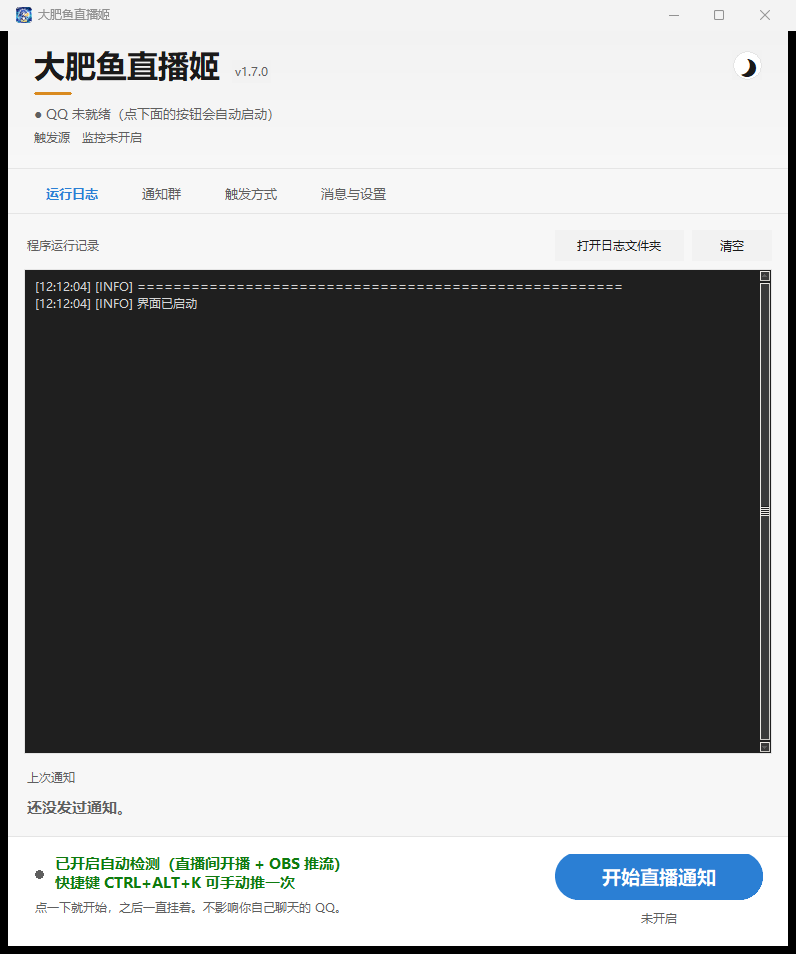
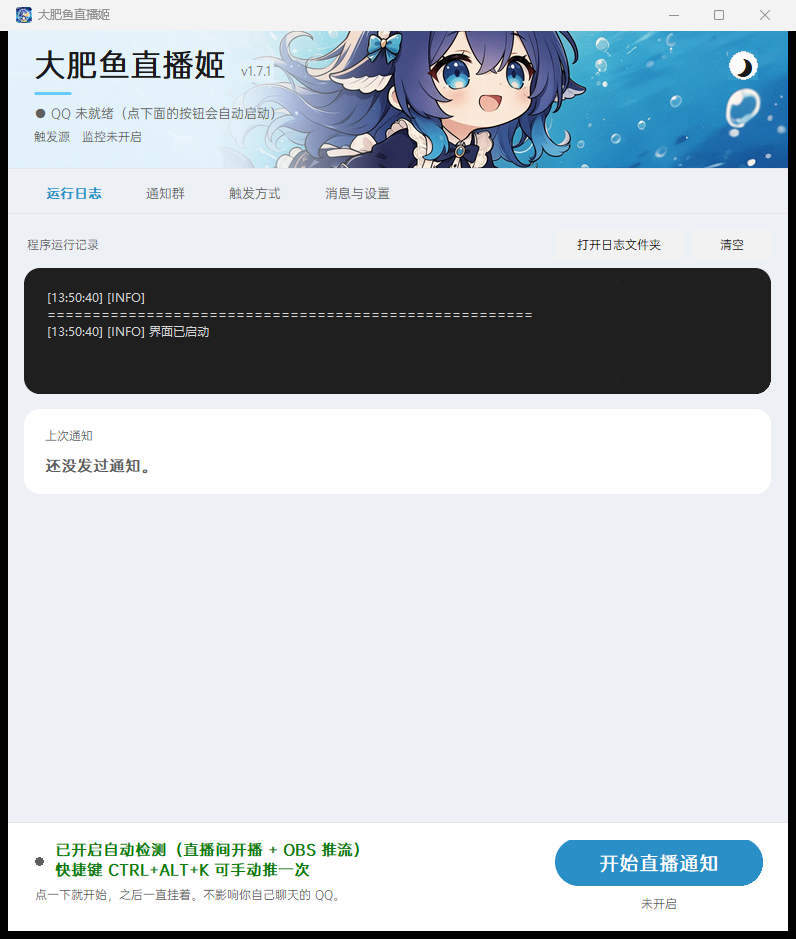
docs: README 与头图跟上二次元改造
## 截图重拍了

旧截图是二次元改造之前的界面。重拍时踩到一个隐私坑：第一次拍出来
界面显示「QQ 已就绪 咕噜鹤鹤子（2123654357）」—— **那是真实的机器人
账号，会进公开的 README**。改成把连接指向一个死端口，逼出「QQ 未就绪」
再拍。

## winget 那句是错的，改了

README 原来写着：

    winget install KagurazakaChizuru.DafeiyuLiveNotify

但 PR #437123 至今 open，而且提交的是 **1.1.0** —— 落后六个版本。
也就是说这条命令**现在根本装不到东西**。改成实话：还在审核队列里，
暂时用不了。

## 补上漏掉的功能

功能表里没有「13 套文案自动轮换」—— 那是 1.6.0 就有的实打实功能，
对外是卖点，漏了。

## 顺手

- 徽章配色从旧的 Fluent 蓝 #2F5FA8 换成天依蓝 #2B8FC7
- banner 上那道琥珀色短线换成天依蓝（唯一跟新配色不搭的一处）
- 补一句：顶部头图可以换成自己的（丢一对 780x138 的 PNG 进 app\）

diff --git a/README.md b/README.md
@@ -2,10 +2,10 @@
 
 ![大肥鱼直播姬](docs/images/banner.png)
 
-[![Release](https://img.shields.io/github/v/release/KagurazakaChizuru/dafeiyu-live-notify?color=2F5FA8&label=release)](https://github.com/KagurazakaChizuru/dafeiyu-live-notify/releases/latest)
-[![License](https://img.shields.io/github/license/KagurazakaChizuru/dafeiyu-live-notify?color=2F5FA8)](LICENSE)
-[![Platform](https://img.shields.io/badge/platform-Windows%2010%20%2F%2011-2F5FA8)](#)
-[![Python](https://img.shields.io/badge/python-3.8%2B-2F5FA8)](#)
+[![Release](https://img.shields.io/github/v/release/KagurazakaChizuru/dafeiyu-live-notify?color=2B8FC7&label=release)](https://github.com/KagurazakaChizuru/dafeiyu-live-notify/releases/latest)
+[![License](https://img.shields.io/github/license/KagurazakaChizuru/dafeiyu-live-notify?color=2B8FC7)](LICENSE)
+[![Platform](https://img.shields.io/badge/platform-Windows%2010%20%2F%2011-2B8FC7)](#)
+[![Python](https://img.shields.io/badge/python-3.8%2B-2B8FC7)](#)
 [![Dependencies](https://img.shields.io/badge/dependencies-0-1E7A4D)](#)
 
 **你开播时，它自动往 QQ 群发一条 `@全体成员`，顺便告诉群友你正在玩什么。**
@@ -22,11 +22,16 @@ Windows 10 / 11 · 免安装 · 不用装 Python · 解压就能跑
 scoop bucket add dafeiyu https://github.com/KagurazakaChizuru/dafeiyu-live-notify
 scoop install dafeiyu/dafeiyu-live-notify
 
-# winget（清单已通过本地校验，正在提交到 winget-pkgs）
-winget install KagurazakaChizuru.DafeiyuLiveNotify
+# winget：清单还在社区审核队列里（PR #437123），**暂时装不到**。
+# 等合并之后才能用下面这条：
+# winget install KagurazakaChizuru.DafeiyuLiveNotify
 ```
 
 ![界面](docs/images/screenshot.png)
+
+界面配色是照着二次元的调子做的：天依蓝、圆角、一点回弹动效。
+**顶部那条头图可以换成你自己的** —— 往 `app\` 里丢一对
+`header-light.png` / `header-dark.png`（780 × 138）就生效，不用重新打包。
 
 ---
 
@@ -48,6 +53,7 @@ winget install KagurazakaChizuru.DafeiyuLiveNotify
 |---|---|
 | 🔔 **开播自动通知** | 多群同时发 `@全体成员`，附一张直播间封面小图 |
 | 🎮 **自动识别在玩什么** | 通知里写「正在玩《三角洲》」。看当前窗口和你自己的直播姬场景配置，**不截图、不上传任何画面** |
+| 📝 **13 套文案自动轮换** | 内置一池子文案，每次开播随机挑一条。群里刷到第三遍就自动忽略 —— 换着发才有人看。想自己写就往里添 |
 | ⏰ **开播后二次提醒** | 30 分 / 1 小时各补一条，给第一波没看到的人第二次机会。有硬性条数上限，刷不爆 |
 | 🌙 **下播提示** | 附本次直播时长和人气峰值。默认不 @ 任何人 |
 | 🎯 **三种触发方式** | 直播间轮询 / OBS 推流事件 / 全局快捷键，可多选，共用冷却 |
